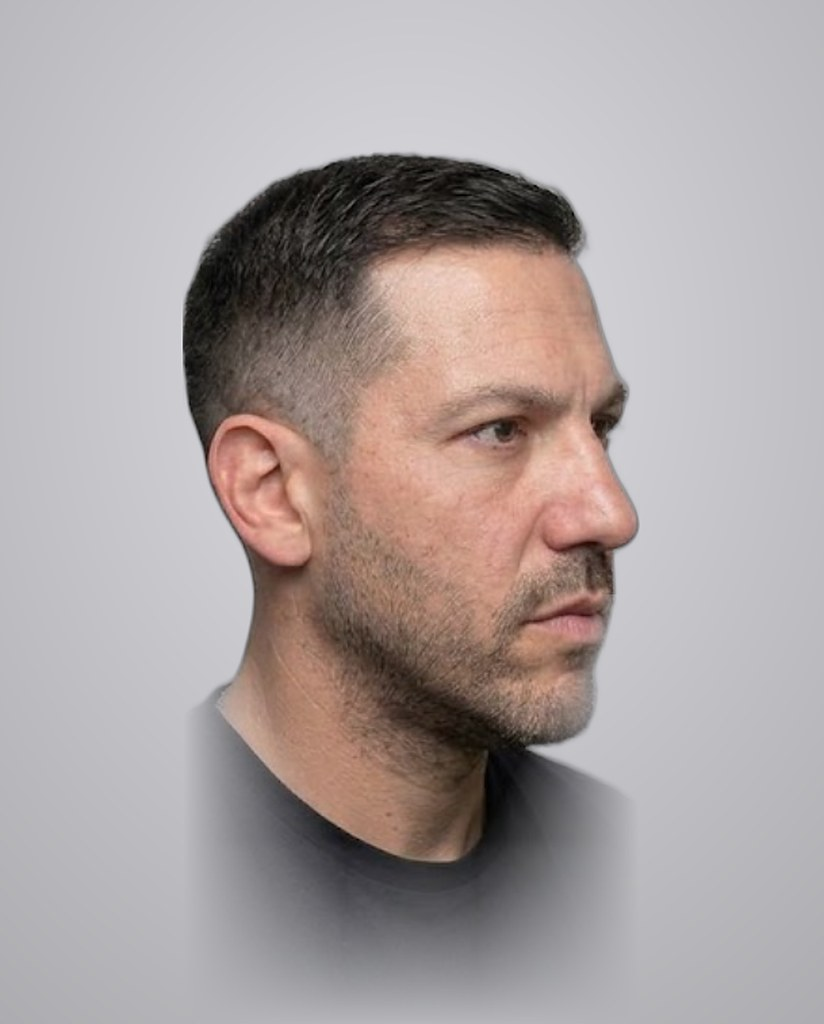
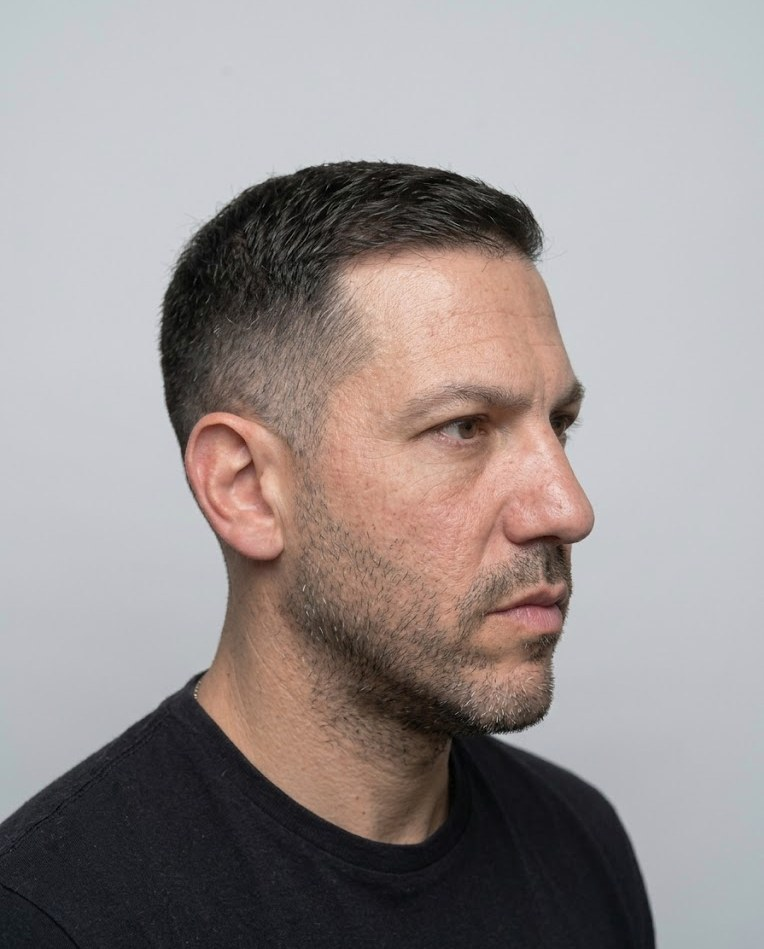
Integra el set de retratos hecho desde la base aprobada
Cinco poses (serio, tres cuartos, perfil, hablando, pensativo) generadas desde
FICHA-FINAL con remera negra, a color natural; recortes y variante en blanco y negro.

Claude-Session: https://claude.ai/code/session_01XEEtusm5kQSvuUnX5VQpy6

diff --git a/opciones-fotos/index.html b/opciones-fotos/index.html
@@ -72,7 +72,7 @@
   </div>
 </section>
 <section class="block"><div class="wrap">
-  <h2>A. Actual: color al natural, recortado</h2><p>Lo que usa hoy el preview en todas las páginas: las cuatro tomas de la base aprobada (remera negra), en su color original, sin fondo y sin teñir.</p>
+  <h2>A. Actual: color al natural, recortado</h2><p>Lo que usa hoy el preview en todas las páginas: el set hecho desde la base aprobada (remera negra), en su color original, sin fondo y sin teñir.</p>
   <div style="display:grid;grid-template-columns:repeat(auto-fill,minmax(200px,1fr));gap:16px;margin-top:20px"><div style="margin:0"><img src="/assets/gustavo/cut-serio.webp" alt="Serio" loading="lazy" style="width:100%!important;max-width:none!important;height:auto!important;display:block;background:#0b1a3a"><p style="font-size:13px;opacity:.75;margin:6px 0 0">Serio</p></div><div style="margin:0"><img src="/assets/gustavo/cut-tres-cuartos.webp" alt="Tres cuartos" loading="lazy" style="width:100%!important;max-width:none!important;height:auto!important;display:block;background:#0b1a3a"><p style="font-size:13px;opacity:.75;margin:6px 0 0">Tres cuartos</p></div><div style="margin:0"><img src="/assets/gustavo/cut-perfil.webp" alt="Perfil" loading="lazy" style="width:100%!important;max-width:none!important;height:auto!important;display:block;background:#0b1a3a"><p style="font-size:13px;opacity:.75;margin:6px 0 0">Perfil</p></div><div style="margin:0"><img src="/assets/gustavo/cut-hablando.webp" alt="Hablando" loading="lazy" style="width:100%!important;max-width:none!important;height:auto!important;display:block;background:#0b1a3a"><p style="font-size:13px;opacity:.75;margin:6px 0 0">Hablando</p></div><div style="margin:0"><img src="/assets/gustavo/cut-pensativo.webp" alt="Pensativo" loading="lazy" style="width:100%!important;max-width:none!important;height:auto!important;display:block;background:#0b1a3a"><p style="font-size:13px;opacity:.75;margin:6px 0 0">Pensativo</p></div></div>
 </div></section>
 <section class="block"><div class="wrap">
@@ -80,7 +80,7 @@
   <div style="display:grid;grid-template-columns:repeat(auto-fill,minmax(200px,1fr));gap:16px;margin-top:20px"><div style="margin:0"><img src="/assets/gustavo/bn-serio.webp" alt="Serio" loading="lazy" style="width:100%!important;max-width:none!important;height:auto!important;display:block;background:#0b1a3a"><p style="font-size:13px;opacity:.75;margin:6px 0 0">Serio</p></div><div style="margin:0"><img src="/assets/gustavo/bn-tres-cuartos.webp" alt="Tres cuartos" loading="lazy" style="width:100%!important;max-width:none!important;height:auto!important;display:block;background:#0b1a3a"><p style="font-size:13px;opacity:.75;margin:6px 0 0">Tres cuartos</p></div><div style="margin:0"><img src="/assets/gustavo/bn-perfil.webp" alt="Perfil" loading="lazy" style="width:100%!important;max-width:none!important;height:auto!important;display:block;background:#0b1a3a"><p style="font-size:13px;opacity:.75;margin:6px 0 0">Perfil</p></div><div style="margin:0"><img src="/assets/gustavo/bn-hablando.webp" alt="Hablando" loading="lazy" style="width:100%!important;max-width:none!important;height:auto!important;display:block;background:#0b1a3a"><p style="font-size:13px;opacity:.75;margin:6px 0 0">Hablando</p></div><div style="margin:0"><img src="/assets/gustavo/bn-pensativo.webp" alt="Pensativo" loading="lazy" style="width:100%!important;max-width:none!important;height:auto!important;display:block;background:#0b1a3a"><p style="font-size:13px;opacity:.75;margin:6px 0 0">Pensativo</p></div></div>
 </div></section>
 <section class="block"><div class="wrap">
-  <h2>C. Con fondo gris de estudio (respaldo)</h2><p>Las mismas tomas de la base aprobada sobre el fondo gris de la ficha.</p>
+  <h2>C. Con fondo gris de estudio (respaldo)</h2><p>Las mismas fotos con su fondo gris de estudio.</p>
   <div style="display:grid;grid-template-columns:repeat(auto-fill,minmax(200px,1fr));gap:16px;margin-top:20px"><div style="margin:0"><img src="/assets/gustavo/serio.jpg" alt="Serio" loading="lazy" style="width:100%!important;max-width:none!important;height:auto!important;display:block;background:#0b1a3a"><p style="font-size:13px;opacity:.75;margin:6px 0 0">Serio</p></div><div style="margin:0"><img src="/assets/gustavo/tres-cuartos.jpg" alt="Tres cuartos" loading="lazy" style="width:100%!important;max-width:none!important;height:auto!important;display:block;background:#0b1a3a"><p style="font-size:13px;opacity:.75;margin:6px 0 0">Tres cuartos</p></div><div style="margin:0"><img src="/assets/gustavo/perfil.jpg" alt="Perfil" loading="lazy" style="width:100%!important;max-width:none!important;height:auto!important;display:block;background:#0b1a3a"><p style="font-size:13px;opacity:.75;margin:6px 0 0">Perfil</p></div><div style="margin:0"><img src="/assets/gustavo/hablando.jpg" alt="Hablando" loading="lazy" style="width:100%!important;max-width:none!important;height:auto!important;display:block;background:#0b1a3a"><p style="font-size:13px;opacity:.75;margin:6px 0 0">Hablando</p></div><div style="margin:0"><img src="/assets/gustavo/pensativo.jpg" alt="Pensativo" loading="lazy" style="width:100%!important;max-width:none!important;height:auto!important;display:block;background:#0b1a3a"><p style="font-size:13px;opacity:.75;margin:6px 0 0">Pensativo</p></div></div>
 </div></section>
 </main>
